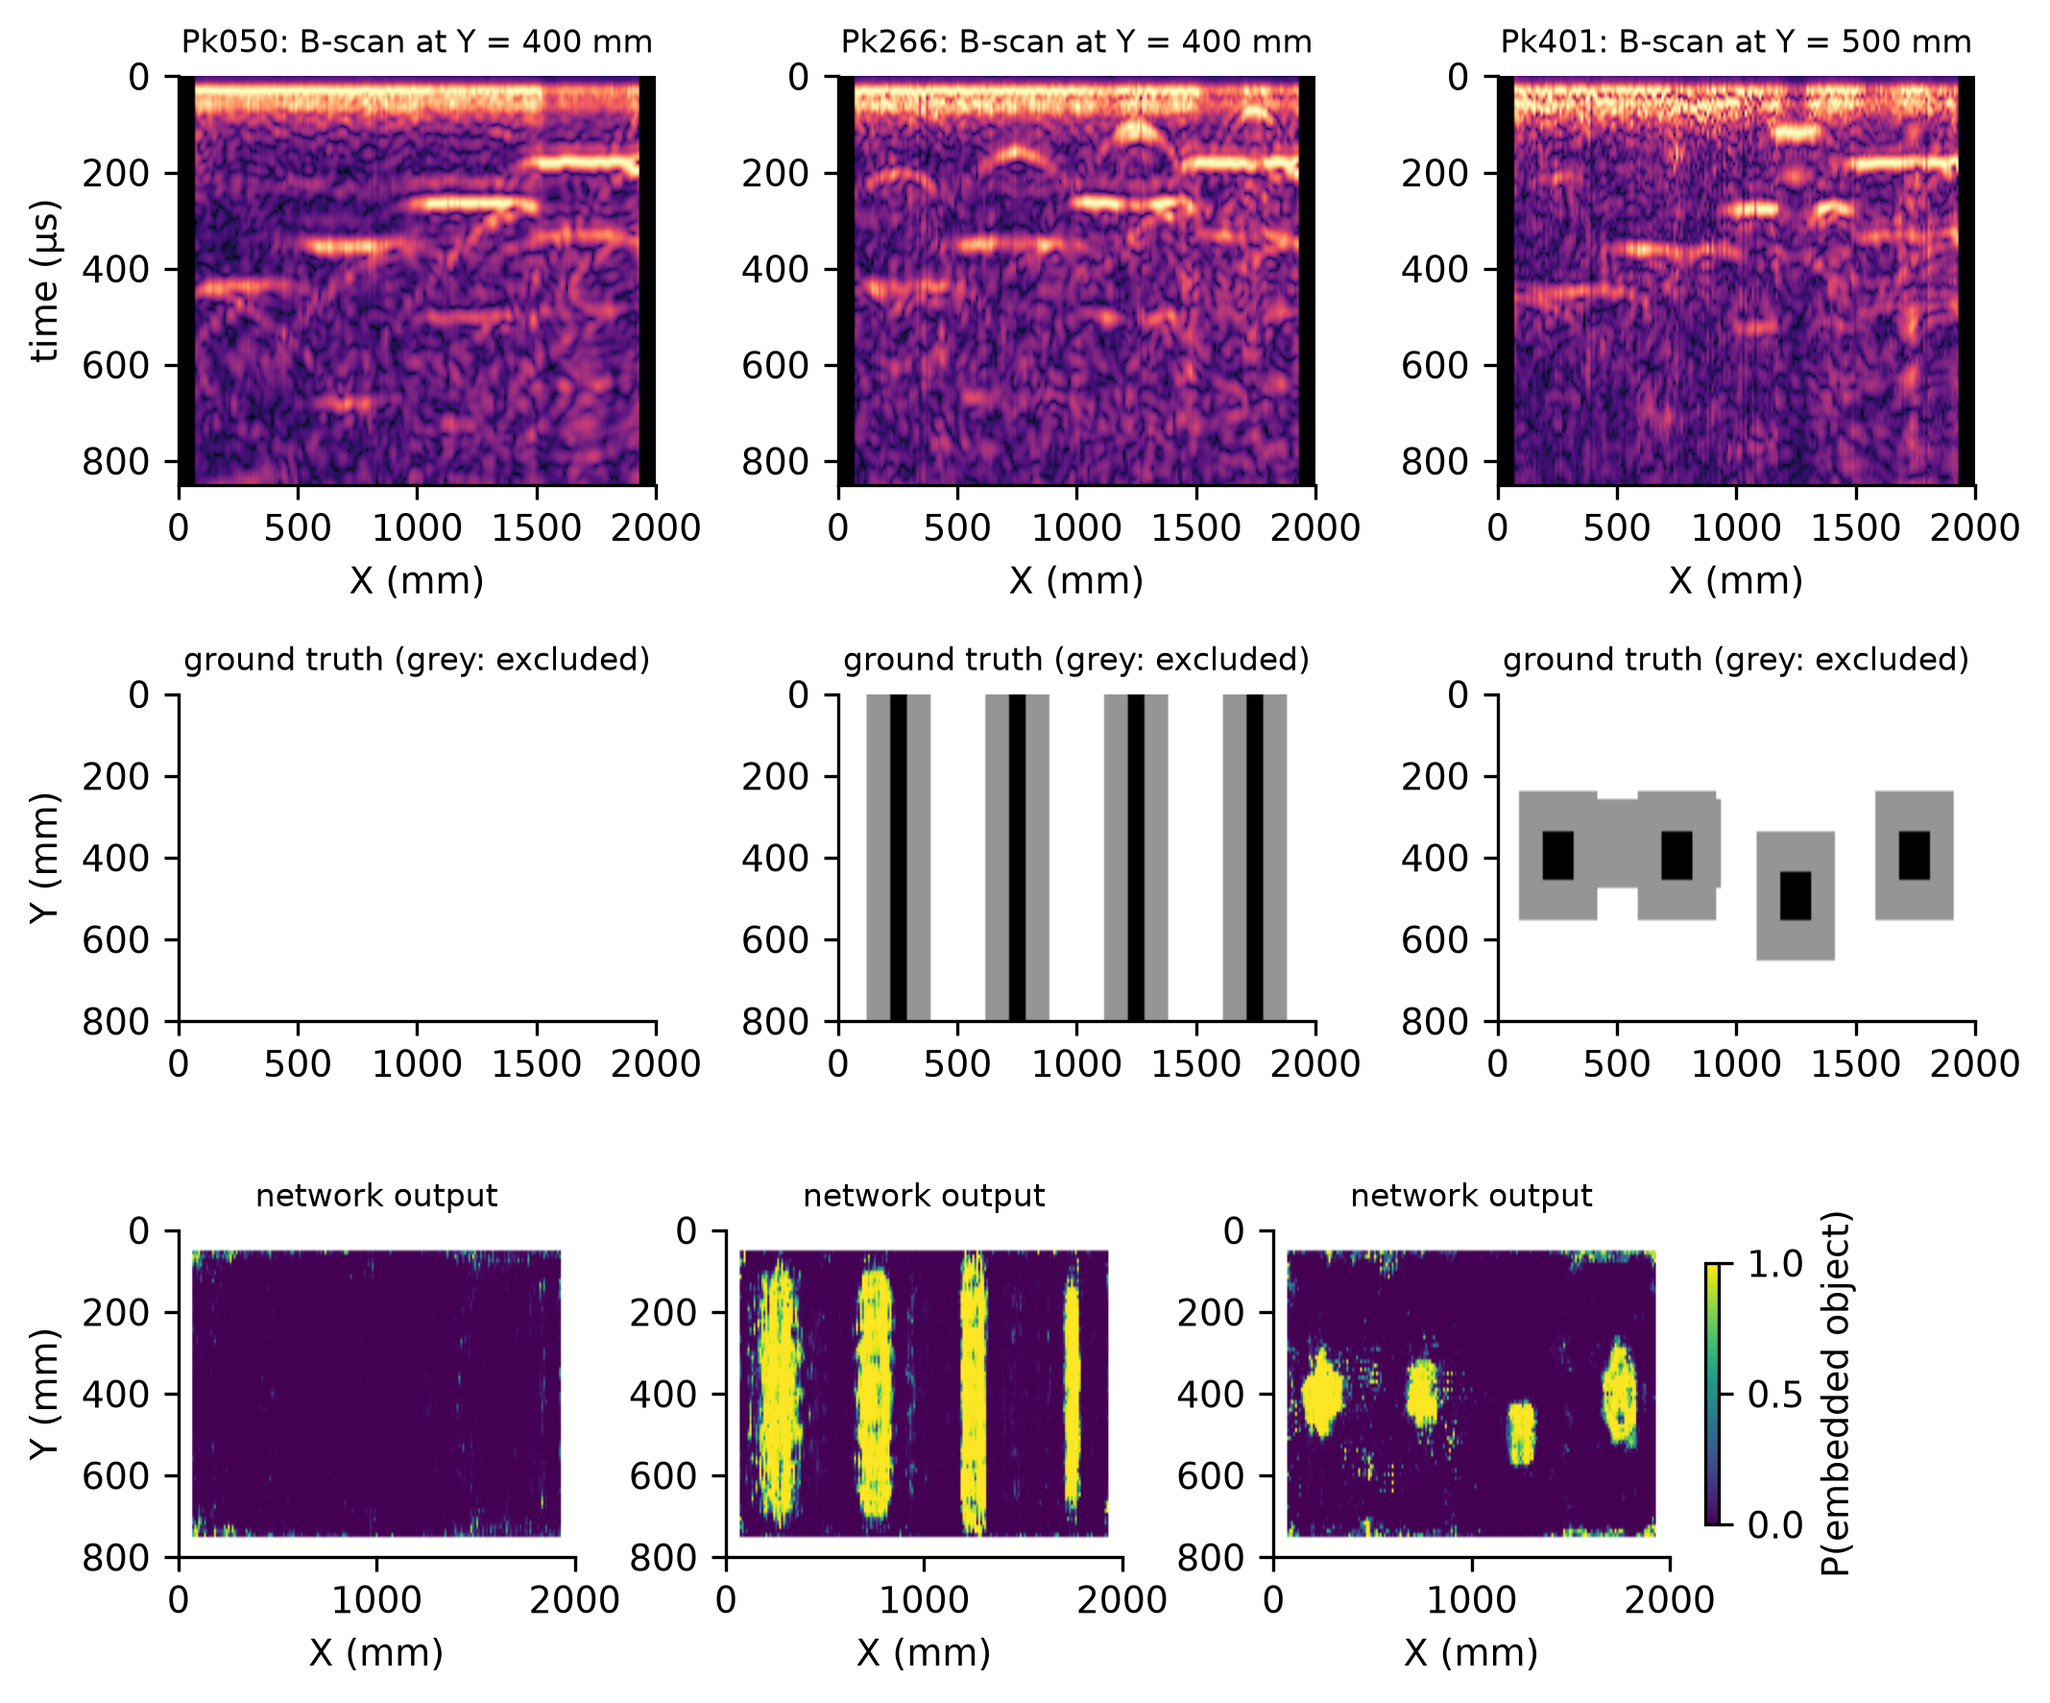
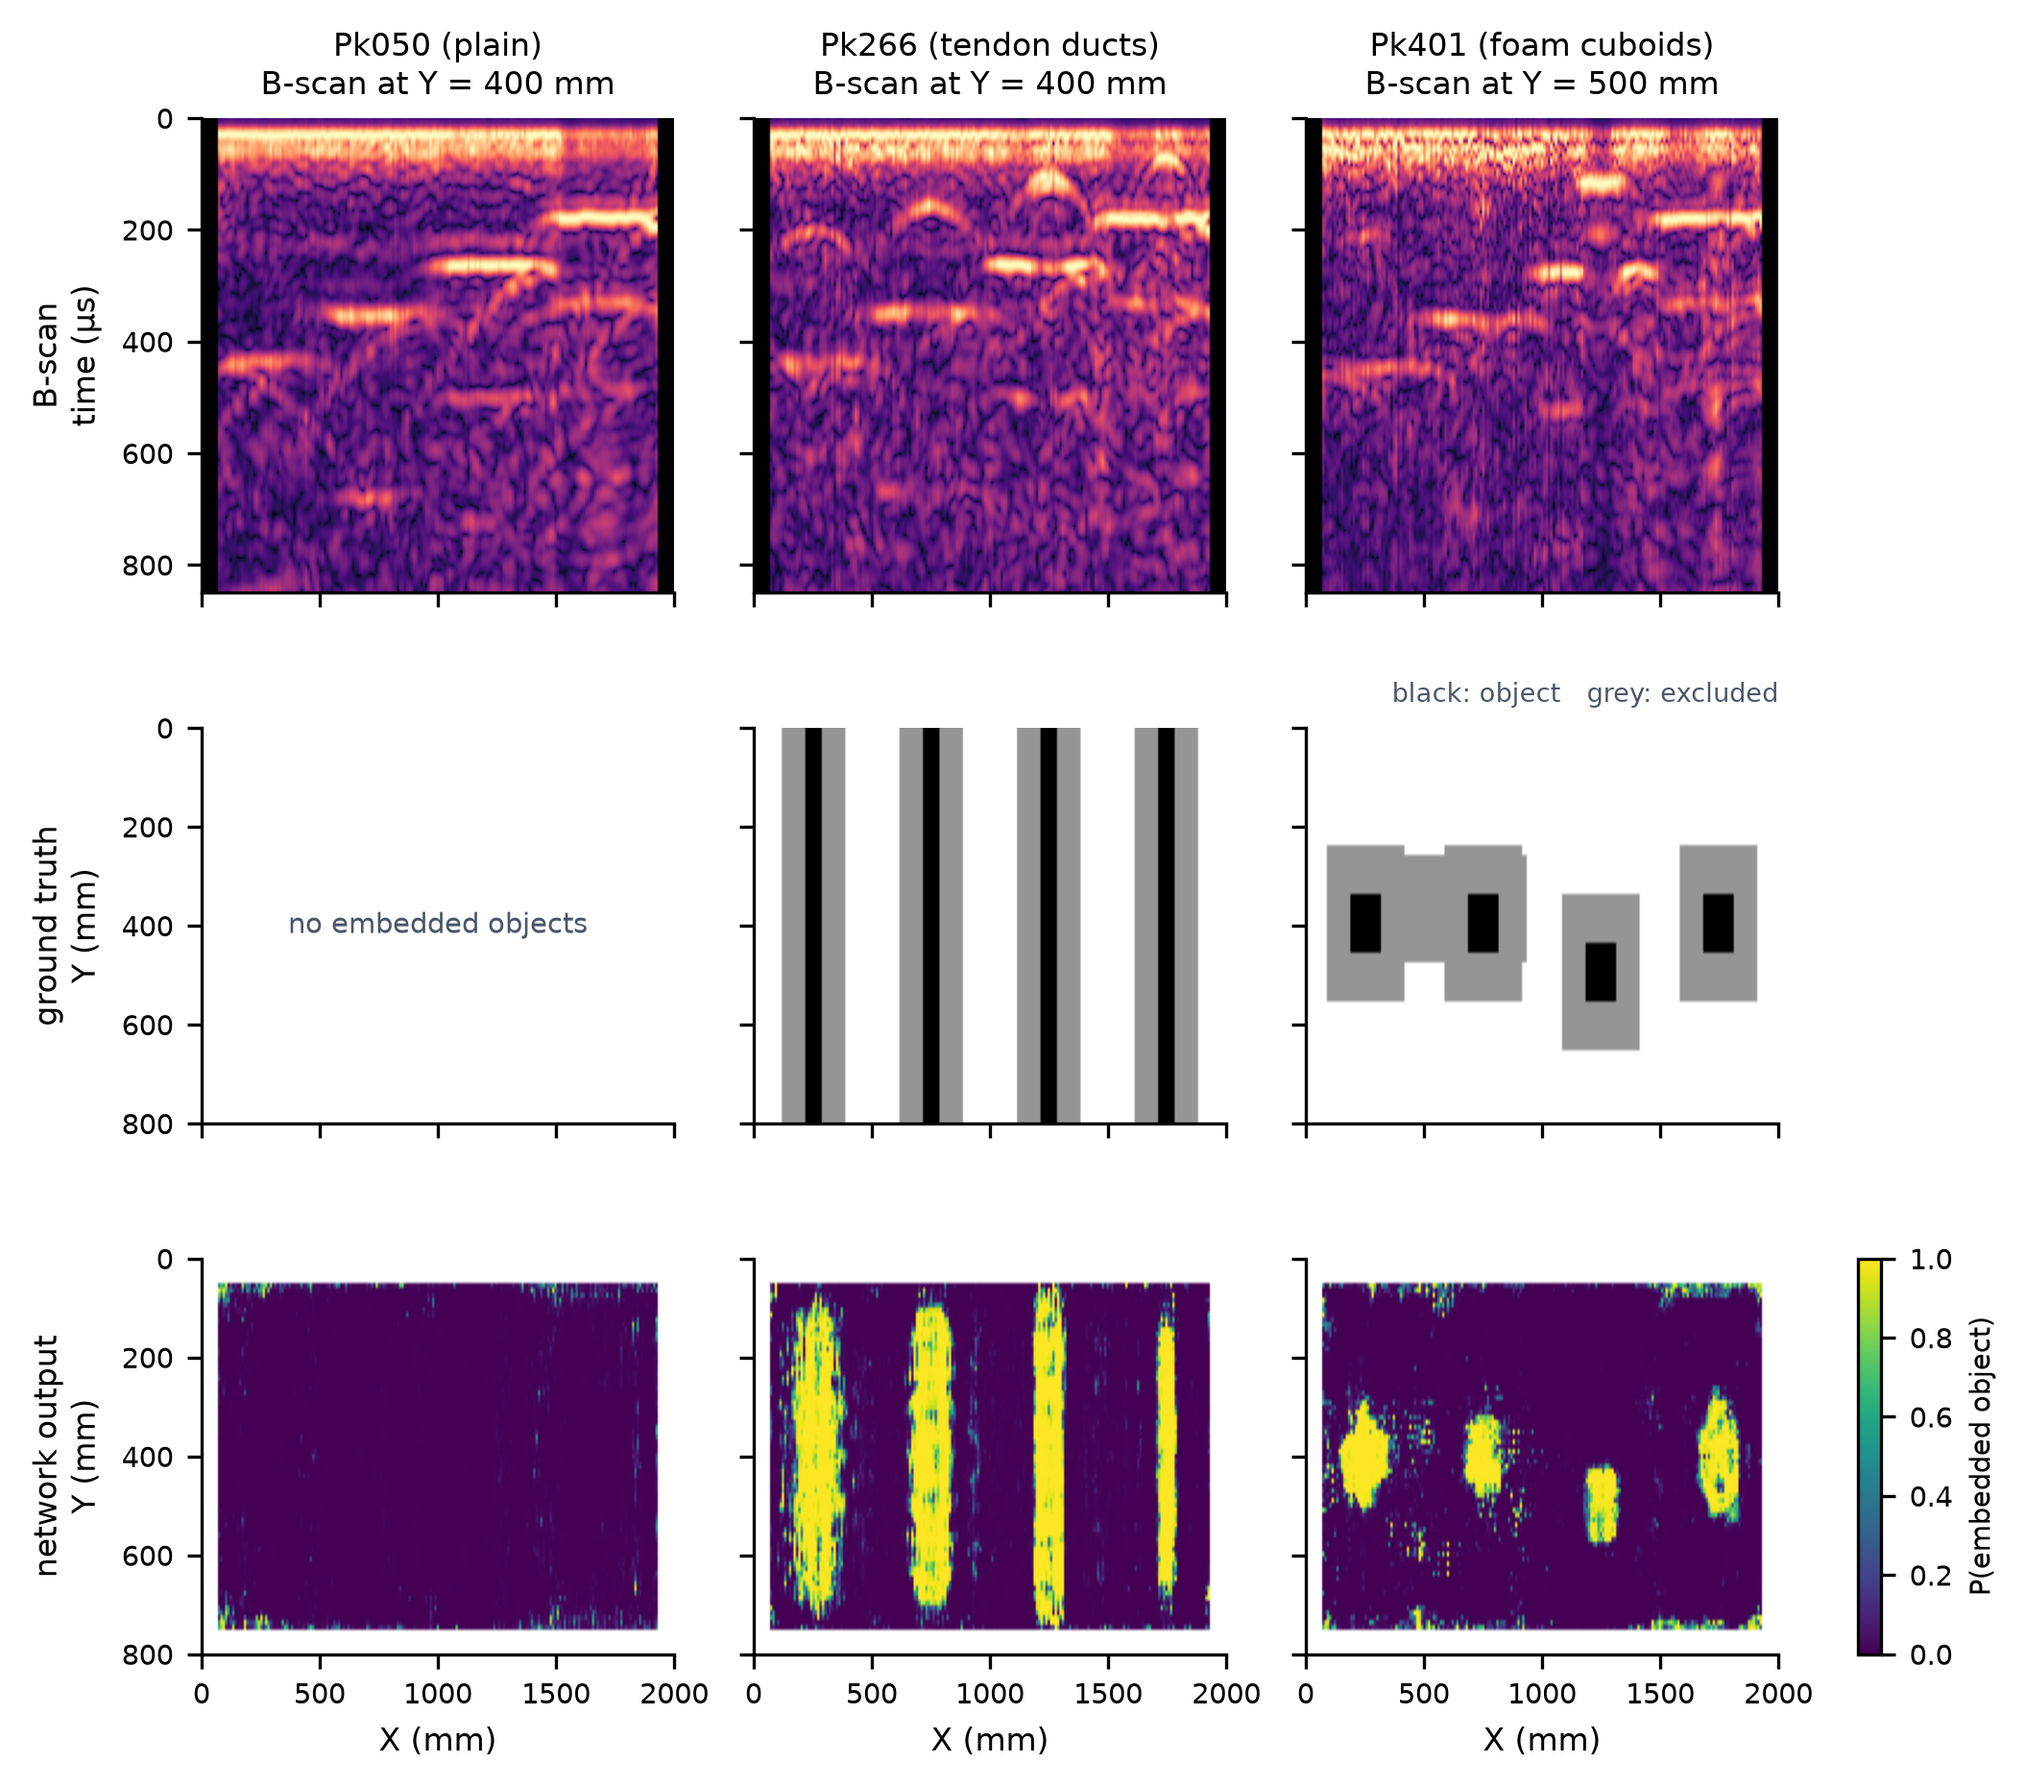
fix: clearer layout and labels in the ultrasonic figure

diff --git a/experiments/make_figures.py b/experiments/make_figures.py
@@ -141,24 +141,37 @@ def fig_ultrasonic(ut_tag):
 
     wave, rot = ut_tag.split("_Rot")
     p = np.load(CACHE / "preds" / f"ascan_{ut_tag}.npz")
-    fig, ax = plt.subplots(3, 3, figsize=(7.2, 6.0), gridspec_kw={"height_ratios": [1.25, 1, 1]})
+    fig = plt.figure(figsize=(7.2, 6.2))
+    gs = fig.add_gridspec(3, 4, width_ratios=[1, 1, 1, 0.05], height_ratios=[1.2, 1, 1],
+                          hspace=0.32, wspace=0.22, left=0.11, right=0.92, top=0.94, bottom=0.08)
+    ax = np.array([[fig.add_subplot(gs[r, c]) for c in range(3)] for r in range(3)])
+    names = {"pk050": "Pk050 (plain)", "pk266": "Pk266 (tendon ducts)", "pk401": "Pk401 (foam cuboids)"}
     for j, s in enumerate(("pk050", "pk266", "pk401")):
         env = U.envelope(U.bandpass(U.load_volume(s, wave, rot), wave))
         row = 50 if s == "pk401" else 40
         b = env[:, row, :1700]
         ax[0, j].imshow((b / (b.max(1, keepdims=True) + 1e-9)).T ** 0.5, aspect="auto", cmap="magma", extent=[0, 2000, 850, 0])
-        ax[0, j].set_title(f"{s.replace('pk', 'Pk')}: B-scan at Y = {row * 10} mm", fontsize=8)
-        ax[0, j].set_xlabel("X (mm)")
+        ax[0, j].set_title(f"{names[s]}\nB-scan at Y = {row * 10} mm", fontsize=8)
         lab, _ = U.object_labels(s)
         ax[1, j].imshow(np.where(lab.T == -1, 0.5, lab.T), aspect="auto", cmap="Greys", vmin=0, vmax=1, extent=[0, 2000, 800, 0])
-        ax[1, j].set_title("ground truth (grey: excluded)", fontsize=8)
+        if not (lab == 1).any():
+            ax[1, j].text(1000, 400, "no embedded objects", ha="center", va="center", fontsize=7, color=C["grey"])
         pm = np.where(p[f"valid_{s}"], p[f"p_{s}"], np.nan)
         im = ax[2, j].imshow(pm.T, aspect="auto", cmap="viridis", vmin=0, vmax=1, extent=[0, 2000, 800, 0])
-        ax[2, j].set_title("network output", fontsize=8)
-        ax[2, j].set_xlabel("X (mm)")
-    ax[0, 0].set_ylabel("time (µs)"), ax[1, 0].set_ylabel("Y (mm)"), ax[2, 0].set_ylabel("Y (mm)")
-    fig.tight_layout()
-    fig.colorbar(im, ax=ax[2, :], shrink=0.8, label="P(embedded object)", pad=0.02)
+        for r in range(3):
+            ax[r, j].set_xticks([0, 500, 1000, 1500, 2000])
+            ax[r, j].tick_params(labelsize=7)
+            if r < 2:
+                ax[r, j].set_xticklabels([])
+            if j > 0:
+                ax[r, j].set_yticklabels([])
+        ax[2, j].set_xlabel("X (mm)", fontsize=8)
+    ax[0, 0].set_ylabel("B-scan\ntime (µs)", fontsize=8)
+    ax[1, 0].set_ylabel("ground truth\nY (mm)", fontsize=8)
+    ax[2, 0].set_ylabel("network output\nY (mm)", fontsize=8)
+    ax[1, 2].text(2000, -40, "black: object   grey: excluded", ha="right", va="bottom", fontsize=6.5, color=C["grey"])
+    cb = fig.colorbar(im, cax=fig.add_subplot(gs[2, 3]))
+    cb.set_label("P(embedded object)", fontsize=7), cb.ax.tick_params(labelsize=7)
     fig.savefig(FIG / "fig4_ultrasonic.png")
     plt.close(fig)
 
